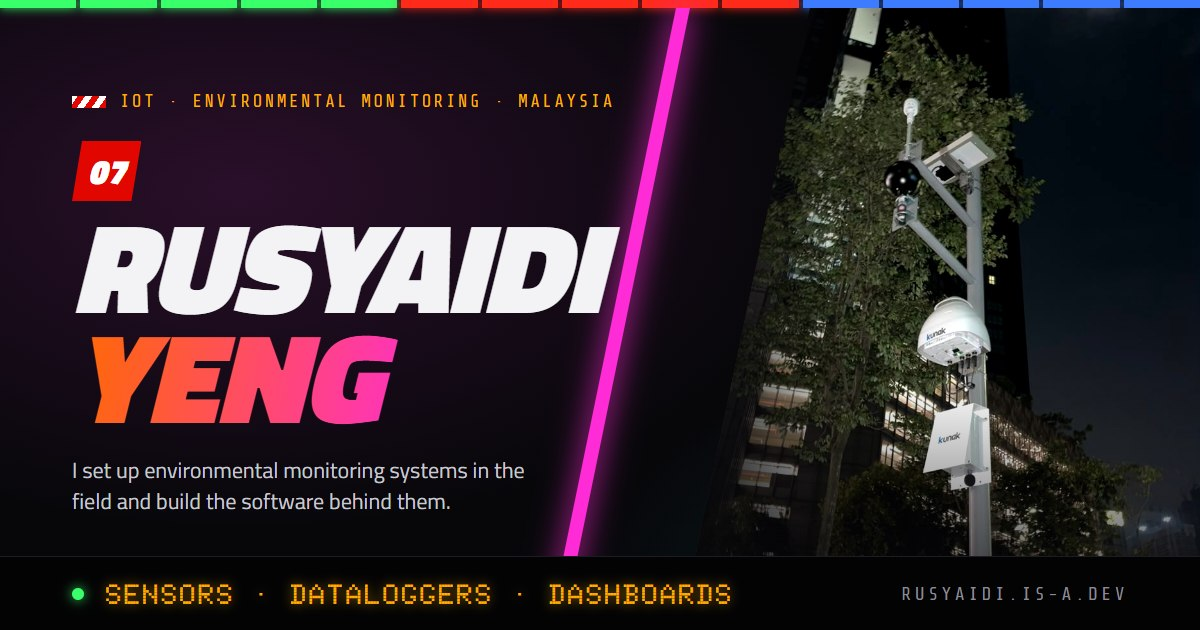
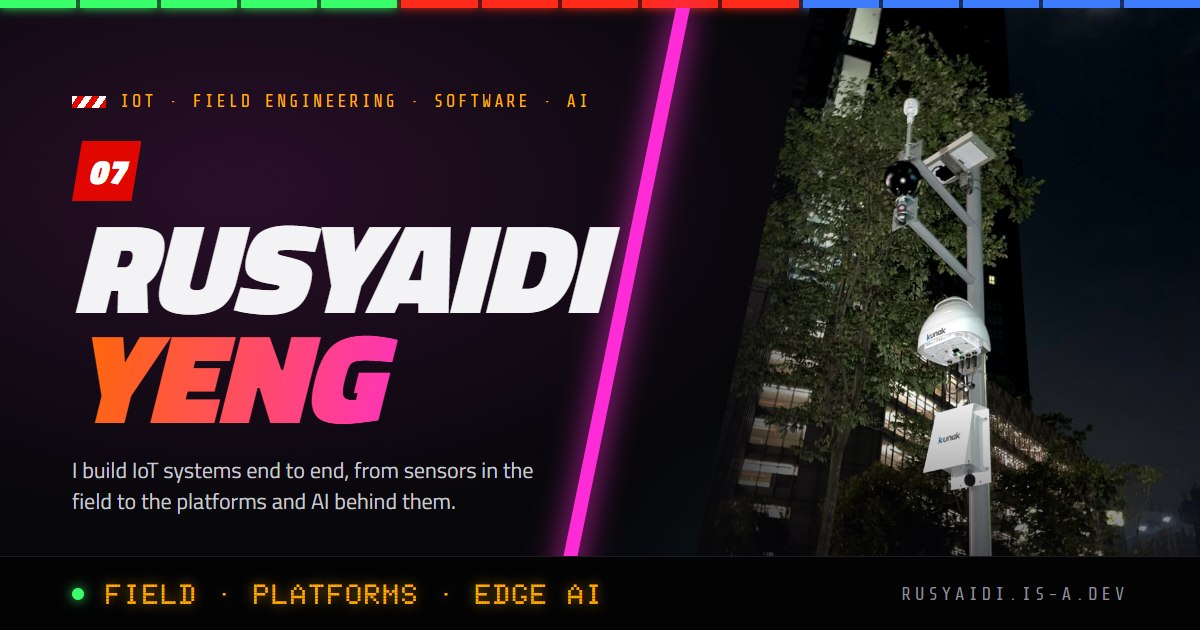
Broaden positioning beyond environmental monitoring: IoT · Field engineering · Software · AI (hero, title, link preview, share image)

Changed region(s): [[0.0925, 0.9048, 0.6167, 0.9651], [0.0617, 0.7238, 0.4625, 0.8143], [0.1542, 0.1508, 0.5242, 0.181]]

diff --git a/port_backend/app/data.py b/port_backend/app/data.py
@@ -9,8 +9,8 @@ Edit these dicts to update your site. The public content is served at
 CONTENT = {
     "hero": {
         "name": "Rusyaidi Yeng",
-        "tagline": "I set up environmental monitoring systems in the field and build the "
-                   "software behind them — from sensors and dataloggers to dashboards and alerts.",
+        "tagline": "I build IoT systems end to end — from sensors and dataloggers in the "
+                   "field to the platforms, dashboards and AI behind them.",
         "rpm": 15000,  # ZX-4RR redline vibe, drives the tachometer accent
     },
     # DRAFTED from your project docs — review wording, roles and client names
